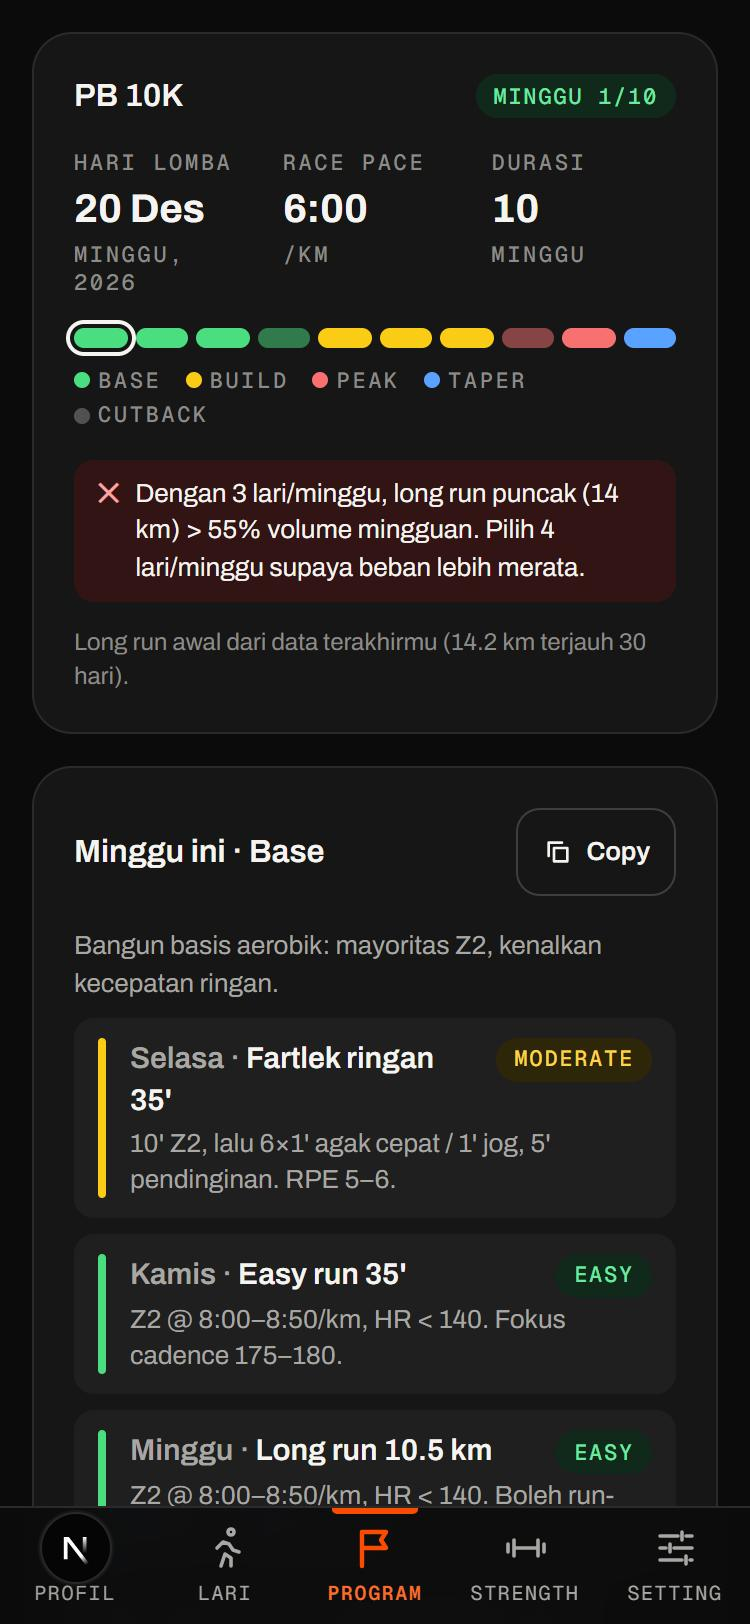
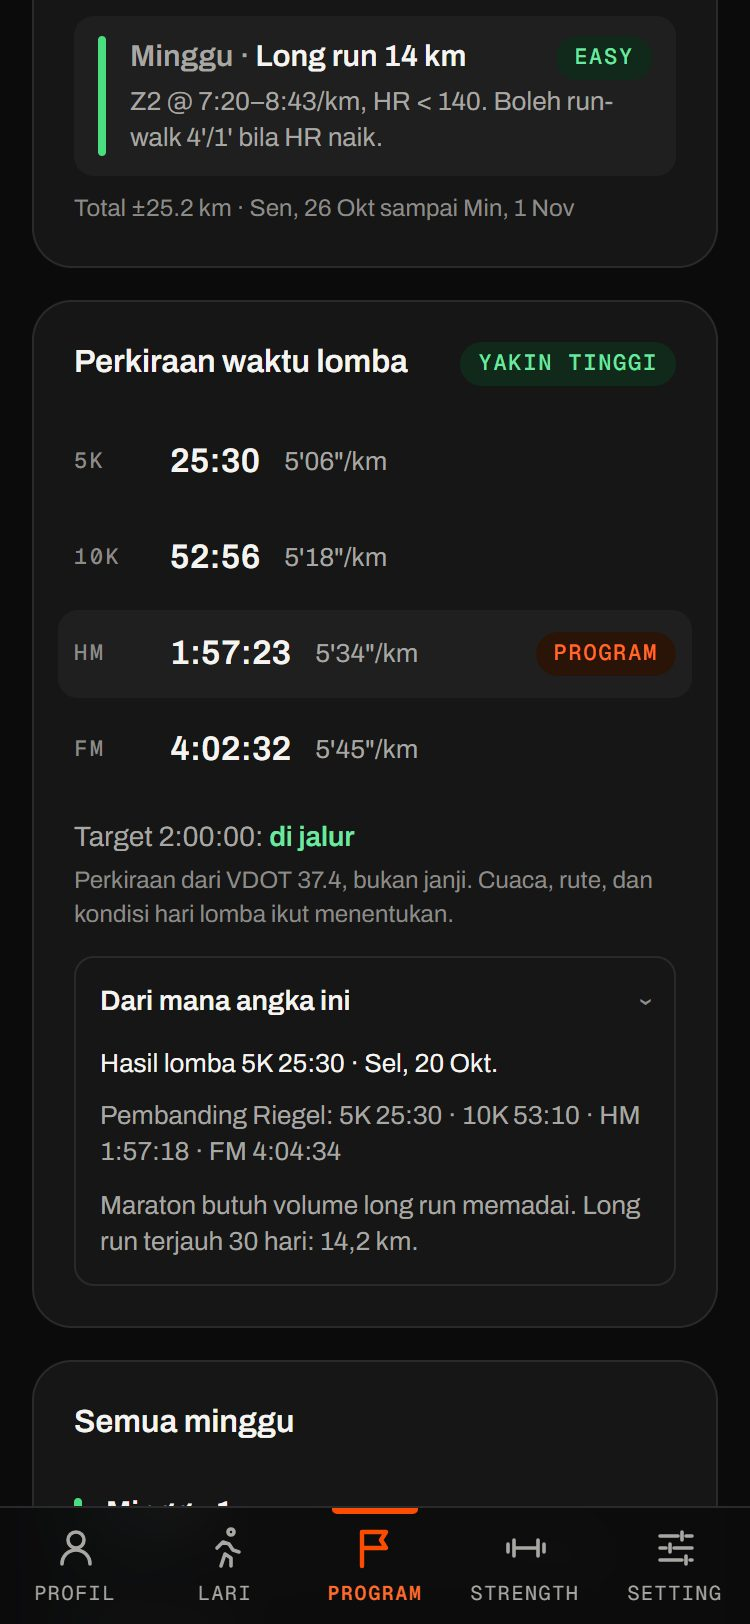
docs: 0.13.2
PRD (version, tests, all 0.13 rows in §4.5 done, §4.8 race results, §7 0.13
done and moved to §8, dated roadmap note, backlog P2 for intervals.icu best
efforts), TRAINING-LOGIC §7 prediction, zone offer, reschedule and countdown
with Daniels & Gilbert 1979 and Riegel 1981, ARCHITECTURE modules and tests
for 0.13.1–0.13.2, CHANGELOG, README, package.json 0.13.2, Program screenshot
from Demo Mode.

diff --git a/docs/PRD.md b/docs/PRD.md
@@ -5,11 +5,11 @@
 
 | | |
 | --- | --- |
-| **Versi saat ini** | 0.13.1 (2026-10-26) |
+| **Versi saat ini** | 0.13.2 (2026-10-26) |
 | **Status** | Dipakai harian oleh pemilik (single user), live di Vercel |
 | **Deploy** | Vercel milik pemilik, dilindungi Deployment Protection (alamat sengaja tidak dicantumkan karena berisi data kesehatan) |
 | **Repo** | https://github.com/khaliladha11/hybrid-athlete-dashboard |
-| **Kualitas** | 29 file test, 398 unit test lolos · build produksi lolos · CI GitHub Actions di setiap push & PR |
+| **Kualitas** | 31 file test, 430 unit test lolos · build produksi lolos · CI GitHub Actions di setiap push & PR |
 | **Dokumen terkait** | [README](../README.md) · [CHANGELOG](../CHANGELOG.md) · [TRAINING-LOGIC](TRAINING-LOGIC.md) · [ARCHITECTURE](ARCHITECTURE.md) · [DESIGN-SYSTEM](DESIGN-SYSTEM.md) · [Logo](brand/LOGO.md) · [ONBOARDING](ONBOARDING.md) · [SYNC](SYNC.md) · [Spesifikasi 0.13: PROGRAM-HIDUP](PROGRAM-HIDUP.md) · [STRENGTH-HIDUP](STRENGTH-HIDUP.md) · [Audit media gerakan](movement-media-audit.md) · [Usulan gerakan 0.9](movement-library-proposal.md) · [NOTICE](../NOTICE.md) |
 
 **Legenda status:** ✅ Selesai · 🟡 Sebagian / ada keterbatasan · ⬜ Belum dibuat · 💡 Ide
@@ -206,15 +206,15 @@ Aturan ini berlaku untuk setiap fitur baru. Semuanya sudah diuji otomatis.
 | Salin rencana minggu ini | ✅ | |
 | Program terhubung ke generator ("Kerjakan sesi hari ini") | ✅ | 0.13.1 ([PROGRAM-HIDUP.md](PROGRAM-HIDUP.md) #1): tombol di Program › Minggu ini dan ringkasan Profil; isian generator dari rencana tetap bisa diubah, chip `DARI PROGRAM · MINGGU N` selama belum diubah, pola rencana (tempo, 4×4) lewat parameter opsional generator. Long run, lomba, Race pace & Sharpener tampil sebagai kartu sesi program dengan teks Copy Set (D4) |
 | Kepatuhan program (rencana vs aktual dari intervals.icu) | ✅ | 0.13.0 ([PROGRAM-HIDUP.md](PROGRAM-HIDUP.md) #2): selesai / sebagian / terlewat / digeser / dilewati, dihitung di client (D2, D3); sesi ber-id + override disinkron per sesi; ST dari log lokal atau aktivitas strength |
-| Prediksi waktu lomba dari performa terbaru | ⬜ | 0.13.2 ([PROGRAM-HIDUP.md](PROGRAM-HIDUP.md) #3); VDOT Daniels, Riegel hanya pembanding (D1) |
+| Prediksi waktu lomba dari performa terbaru | ✅ | 0.13.2 ([PROGRAM-HIDUP.md](PROGRAM-HIDUP.md) #3): kartu "Perkiraan waktu lomba" di Program. VDOT Daniels dari hasil lomba 90 hari (keyakinan tinggi) atau lari utuh ≥ 3 km (rendah), invers ke 5K/10K/HM/FM, selisih terhadap target, Riegel hanya pembanding (D1). FM maksimal rendah bila long run terjauh 30 hari < 12 km. Best effort intervals.icu belum dipakai (backlog) |
 | Saran hari ini membaca sesi rencana hari ini | ✅ | 0.13.1 ([PROGRAM-HIDUP.md](PROGRAM-HIDUP.md) #4): readiness rendah menurunkan quality satu level dan memendekkan long run ke ±75% (pace easy); 80/20 → quality jadi Easy; kenaikan km > 30% → maks 30' dan long run ditahan di jarak minggu lalu. Lihat [TRAINING-LOGIC §5](TRAINING-LOGIC.md#5-saran-hari-ini) |
 | Sesi rencana yang akan datang di kalender (rencana = warna intensitas, selesai = oranye) | ✅ | 0.13.0 ([PROGRAM-HIDUP.md](PROGRAM-HIDUP.md) #5) |
 | Rentang kalender mengikuti panjang program (HM 12 mg, FM 16 mg) | ✅ | 0.13.0 ([PROGRAM-HIDUP.md](PROGRAM-HIDUP.md) #6): data lama diambil sekali lewat `/api/activities` (maks 200 hari) |
 | Ringkasan minggu program di Profil (minggu ke-, fase, sesi selesai, long run) | ✅ | 0.13.0 ([PROGRAM-HIDUP.md](PROGRAM-HIDUP.md) #7): hanya untuk program aktif |
 | Sesi ST dari program membuka Generator Strength | ✅ | 0.13.1 ([PROGRAM-HIDUP.md](PROGRAM-HIDUP.md) #8): Senin Lower 45', Rabu Upper Pull (minggu ganjil) / Upper Push (genap), taper Easy. Logika ST tidak berubah (0.14) |
-| Sesi terlewat: tawaran geser atau lewati, tetap mematuhi aturan jadwal | ⬜ | 0.13.2 ([PROGRAM-HIDUP.md](PROGRAM-HIDUP.md) #9). Keputusan di tangan atlet; tidak pernah menambah volume minggu berikutnya (D5) |
-| Saran update zona saat prediksi menunjukkan kebugaran naik konsisten | ⬜ | 0.13.2 ([PROGRAM-HIDUP.md](PROGRAM-HIDUP.md) #10). Tidak pernah otomatis |
-| Hitung mundur & minggu lomba (sisa hari, catatan taper, checklist hari H) | ⬜ | 0.13.2 ([PROGRAM-HIDUP.md](PROGRAM-HIDUP.md) #11) |
+| Sesi terlewat: tawaran geser atau lewati, tetap mematuhi aturan jadwal | ✅ | 0.13.2 ([PROGRAM-HIDUP.md](PROGRAM-HIDUP.md) #9): baris `Tempo Selasa terlewat · Geser ke Jumat · Lewati` di Program dan Profil, disimpan sebagai override (tersinkron per sesi). Geser hanya di minggu yang sama, jadi tidak pernah menambah volume minggu berikutnya (D5); long run Minggu praktis hanya bisa dilewati. Lewati dua ketukan |
+| Saran update zona saat prediksi menunjukkan kebugaran naik konsisten | ✅ | 0.13.2 ([PROGRAM-HIDUP.md](PROGRAM-HIDUP.md) #10): di Setting › Zona dan Profil bila dua hasil lomba berbeda (terpisah ≥ 14 hari) sama-sama ≥ VDOT zona + 1. Tidak pernah otomatis; Tolak diingat sampai VDOT naik ≥ 1 lagi |
+| Hitung mundur & minggu lomba (sisa hari, catatan taper, checklist hari H) | ✅ | 0.13.2 ([PROGRAM-HIDUP.md](PROGRAM-HIDUP.md) #11): `14 HARI LAGI · HALF MARATHON` di Program dan Profil, checklist umum H-1 dengan rencana pace dari perkiraan, dan tawaran mencatat hasil lomba H+1 sampai H+14 |
 
 ### 4.6 Log & progresi beban
 
@@ -260,6 +260,7 @@ Aturan ini berlaku untuk setiap fitur baru. Semuanya sudah diuji otomatis.
 | Nav bagian sticky: smooth scroll, highlight kartu tujuan, scroll spy | ✅ | 0.8.1, menghormati reduced motion |
 | Zona HR & RPE bisa diubah | ⬜ | Sekarang hanya pace |
 | Edit nama, target lomba, tanggal mulai blok | ✅ | 0.11.0, bagian Profil (paling atas). Target lomba lewat pemilih waktu |
+| Hasil lomba / time trial tersimpan (jarak, waktu, tanggal) | ✅ | 0.13.2: dari kalkulator VDOT ("Terapkan ke semua zona" atau "Simpan hasil saja"), bisa dihapus, tersinkron per kunci. Sumber utama perkiraan waktu lomba dan saran update zona |
 
 ### 4.9 Onboarding
 
@@ -347,11 +348,12 @@ Ukuran: **S** ≈ < 1 hari · **M** ≈ 1–3 hari · **L** ≈ > 3 hari.
 
 | Usulan versi | Isi | Alasan |
 | --- | --- | --- |
-| **0.13 Program hidup** ([PROGRAM-HIDUP.md](PROGRAM-HIDUP.md)) | Program → generator, kepatuhan rencana vs aktual, prediksi waktu lomba; saran tahu rencana, rencana di kalender, ringkasan minggu, sesi terlewat (geser/lewati), hitung mundur lomba | Program target jadi benar-benar dipakai harian |
 | **0.14 Strength hidup** ([STRENGTH-HIDUP.md](STRENGTH-HIDUP.md)) | ST mengikuti fase program, session-RPE masuk beban, aturan hari yang sama, mode latihan + timer, skema Kekuatan, tangga progresi, tes kekuatan, plyometric opsional | ST jadi separuh rencana yang setara: ikut dihitung sebagai beban dan punya progres yang terlihat |
 | **0.15 Insight** | Grafik tren CTL/ATL/Form, km mingguan, pace & cadence, tren volume ST; check-in subjektif harian | Melihat progres jangka panjang dan mencegah cedera |
 | **1.0 Siap pakai penuh** | Offline, kirim workout ke intervals.icu/jam, test e2e | Stabil dan mandiri tanpa edit kode |
 
+> 2026-10-26 (2): **0.13 Program hidup selesai** (0.13.0 kepatuhan & kalender, 0.13.1 program → generator & saran tahu rencana, 0.13.2 prediksi, saran zona, geser/lewati, hitung mundur) dan pindah ke §8. Rilis berikutnya **0.14 Strength hidup**. Sumber 2 prediksi (best effort intervals.icu) tidak dipakai: endpoint `GET /api/v1/athlete/{id}/pace-curves` ada di dokumentasi resmi, tetapi satuan `values` tidak dijelaskan dan data per detik jam tidak selalu bisa dipercaya (§6), jadi masuk backlog P2. Saran update zona memakai dua hasil lomba berbeda yang terpisah ≥ 14 hari.
+>
 > 2026-10-26: **spesifikasi 0.13 Program hidup selesai** ([PROGRAM-HIDUP.md](PROGRAM-HIDUP.md), menggantikan dokumen cakupan). Dirilis bertahap: 0.13.0 kepatuhan & kalender, 0.13.1 program → generator & saran tahu rencana, 0.13.2 prediksi, zona, geser/lewati, hitung mundur. Keputusan: **D1** prediksi memakai VDOT Daniels yang sama dengan zona, Riegel hanya pembanding. **D2** sesi selesai bila ada lari di tanggal rencana ±1 hari (WIB) dengan jenis cocok dan durasi atau jarak ≥ 80%, di bawahnya sebagian. **D3** kepatuhan dihitung di client lewat modul murni, aktivitas tetap diambil di server. **D4** long run dan sesi spesifik lomba tidak dibuat ulang lewat generator 30/45/60 menit, tetapi tampil sebagai kartu sesi program. **D5** geser/lewati tidak pernah otomatis dan tidak pernah menambah volume minggu berikutnya.
 >
 > 2026-10-23 (3): roadmap disetujui: **0.13 Program hidup**, **0.14 Strength hidup**, **0.15 Insight**, 1.0. ST dipisah menjadi rilis sendiri karena ST belum tereksplorasi untuk aplikasi hybrid athlete (masih prehab & pelengkap lari, belum dihitung sebagai beban dan belum mengikuti fase program). Insight bergeser dari 0.14 ke 0.15 dan kini mencakup tren volume ST. CI tidak lagi tercantum di 1.0 karena sudah ada sejak 0.12.0. Cakupan: [PROGRAM-HIDUP.md](PROGRAM-HIDUP.md), [STRENGTH-HIDUP.md](STRENGTH-HIDUP.md).
@@ -380,9 +382,9 @@ Ukuran: **S** ≈ < 1 hari · **M** ≈ 1–3 hari · **L** ≈ > 3 hari.
 | P0 | **Sinkron data** (Upstash Redis / Supabase) untuk log, program, preferensi | M | Data aman dan sama di semua perangkat. → Masuk **0.12.1–0.12.2** (Upstash Redis milik pengguna, [SYNC.md](SYNC.md) §4) |
 | P0 | **CI GitHub Actions** (typecheck, test, build tiap push) | S | Mencegah rilis rusak. → Masuk **0.12.0** ([SYNC.md](SYNC.md) §6) |
 | P1 | **Gambar untuk 5 gerakan sisa** & gerakan anti-rotasi (sumber berlisensi bebas lain, atau foto sendiri) | M | Detail teknik lengkap untuk prehab wajib |
-| P1 | **Program → generator**: tombol "Kerjakan sesi hari ini" yang mengisi generator lari | S | Satu tap dari rencana ke workout. → **0.13** |
-| P1 | **Kepatuhan program**: tandai sesi rencana ✓/✕ dari aktivitas intervals.icu, tampil di kalender | M | Tahu apakah masih di jalur. → **0.13** |
-| P1 | **Prediksi waktu lomba** dari lari terbaik terbaru (usulan VDOT Daniels, Riegel sebagai pembanding) untuk mengecek target | S | Target realistis. → **0.13** |
+| P1 | **Program → generator**: tombol "Kerjakan sesi hari ini" yang mengisi generator lari | S | Satu tap dari rencana ke workout. → Selesai di **0.13.1** |
+| P1 | **Kepatuhan program**: tandai sesi rencana ✓/✕ dari aktivitas intervals.icu, tampil di kalender | M | Tahu apakah masih di jalur. → Selesai di **0.13.0** |
+| P1 | **Prediksi waktu lomba** dari lari terbaik terbaru (usulan VDOT Daniels, Riegel sebagai pembanding) untuk mengecek target | S | Target realistis. → Selesai di **0.13.2** (tanpa best effort intervals.icu, lihat P2) |
 | P1 | **Check-in harian**: nyeri shin (0–10), pegal, kualitas tidur, mood → ikut ke saran | S | Sinyal dini shin splints yang tidak terlihat di HRV. → **0.15** |
 | P1 | **Grafik tren** CTL/ATL/Form & km mingguan | M | Melihat kebugaran dan kelelahan jangka panjang. → **0.15** |
 | P1 | **ST mengikuti fase program** (Base, Build, Peak, Taper) | M | ST kaki tidak berat menjelang lomba. → **0.14** |
@@ -390,6 +392,7 @@ Ukuran: **S** ≈ < 1 hari · **M** ≈ 1–3 hari · **L** ≈ > 3 hari.
 | P2 | **Kirim workout ke kalender intervals.icu** (lalu ke jam yang terhubung) | M | Workout langsung muncul di jam. → **1.0** |
 | P2 | **Edit sisa profil di aplikasi** (target lomba, tanggal mulai blok, zona HR/RPE) | S | Tanpa edit JSON sama sekali. → Terserap ke **0.11** ([ONBOARDING.md](ONBOARDING.md) §4.5), kecuali zona HR/RPE yang tetap di backlog |
 | P2 | **Enkripsi sisi klien (opsional)**: passphrase + WebCrypto sebelum data dikirim ke database | M | Database pun tidak bisa membaca data kesehatan. Tidak di 0.12 ([SYNC.md](SYNC.md) §4, §11) |
+| P2 | **Best effort intervals.icu sebagai sumber kedua prediksi** (`GET /api/v1/athlete/{id}/pace-curves`, `type=Run`, `curves=90d`) | S | Perkiraan lebih yakin tanpa harus lomba. Butuh kepastian satuan `values` (tidak dijelaskan di skema API) dan penyaring untuk data per detik jam yang rusak, karena best effort juga bisa memicu saran update zona |
 | P2 | **Isian awal VDOT dari lari terbaik 90 hari** di onboarding & Setting (butuh data intervals.icu di client) | S | Zona lari tepat tanpa harus ingat hasil lomba |
 | P2 | **Ambang personal** (HR berat dari zona/LTHR, baseline HRV 30 hari) | S | Saran lebih akurat |
 | P2 | **Mode offline** (service worker, cache workout terakhir) | M | Tetap bisa dibuka di gym tanpa sinyal. Relevan untuk rasa native setelah onboarding mengajak pasang ke layar utama (0.11). → **1.0** |
@@ -445,6 +448,7 @@ Ukuran: **S** ≈ < 1 hari · **M** ≈ 1–3 hari · **L** ≈ > 3 hari.
 | 0.12.2 | 2026-10-23 | Cadangan otomatis harian (7 snapshot) + Riwayat cadangan & Pulihkan yang bisa dibatalkan; Sambungkan perangkat ini; disclaimer v2; README panduan Upstash |
 | 0.13.0 | 2026-10-26 | Program hidup tahap 1: sesi rencana ber-id + override (disinkron per sesi), kepatuhan otomatis, rencana di kalender sepanjang program, ringkasan minggu di Profil |
 | 0.13.1 | 2026-10-26 | Program hidup tahap 2: "Kerjakan sesi hari ini" (isian generator lari & ST dari rencana, kartu sesi program untuk long run & sesi spesifik lomba), saran hari ini terhadap rencana |
+| 0.13.2 | 2026-10-26 | Program hidup selesai: perkiraan waktu lomba (VDOT, Riegel pembanding), hasil lomba tersimpan, saran update zona, geser/lewati sesi terlewat, hitung mundur & checklist minggu lomba |
 
 Detail tiap versi ada di [CHANGELOG.md](../CHANGELOG.md).
 

diff --git a/docs/ARCHITECTURE.md b/docs/ARCHITECTURE.md
@@ -77,7 +77,10 @@ Pelanggaran akan melempar `WorkoutValidationError`. Hal yang sama berlaku untuk 
 | `lib/program/sessions.ts` | Sesi rencana ber-id `{programId}:{minggu}:{hari}:{jenis}` termasuk ST, penerapan override move/skip | Server & client (murni) |
 | `lib/program/compliance.ts` | Pencocokan aktivitas ±1 hari & status sesi (D2), catatan lebih berat, ringkasan minggu | Server & client (murni) |
 | `lib/program/range.ts`, `app/api/activities/route.ts` | `GET /api/activities?oldest=` (maks 200 hari, `private, max-age=300`) memakai `getActivities`; sesi sandi tetap diperiksa `intervalsGet` | Server |
-| `lib/program/use-program-plan.ts` | Hook: pengaturan program + aktivitas dari server (+ satu ambilan tambahan bila program butuh data lebih lama) → program, sesi, kepatuhan di client (D3) | Client |
+| `lib/program/to-generator.ts` | Pemetaan sesi rencana → isian generator lari/ST atau kartu sesi program (0.13.1), teks salin kartu, query prefill & parser-nya, `todaySession`, `planToday` | Server & client (murni) |
+| `lib/program/prediction.ts` | Perkiraan waktu lomba (0.13.2): sumber VDOT (hasil lomba 90 hari, lalu lari utuh ≥ 3 km), invers VDOT per jarak, keyakinan, Riegel, `targetGap`, `zoneOffer` | Server & client (murni) |
+| `lib/program/reschedule.ts` | Opsi geser/lewati untuk sesi terlewat (0.13.2), selalu di minggu yang sama (D5), `missedSessions` | Server & client (murni) |
+| `lib/program/use-program-plan.ts` | Hook: pengaturan program + aktivitas dari server (+ satu ambilan tambahan bila program butuh data lebih lama) → program, sesi, kepatuhan di client (D3); `decide()` menyimpan keputusan geser/lewati sebagai override | Client |
 | `lib/generator/block.ts` | Posisi blok & deload dari tanggal | Server |
 | `lib/generator/run.ts`, `strength.ts` | Pembuat pola | Client |
 | `lib/generator/validate.ts` | Sanitizer + validator | Client |
@@ -86,7 +89,7 @@ Pelanggaran akan melempar `WorkoutValidationError`. Hal yang sama berlaku untuk 
 | `lib/progression.ts` | Aturan 2-for-2, penerapan ke workout | Client |
 | `lib/training-log.ts` | Penyimpanan log (localStorage) + ekspor/impor | Client |
 | `lib/conditions.ts` | Katalog kondisi berbasis riset → aturan generator | Server & client |
-| `lib/run-zones.ts` | Rumus VDOT Daniels, parser & format pace | Client |
+| `lib/run-zones.ts` | Rumus VDOT Daniels, invers (`timeForVdot`) & VDOT zona tersimpan (`zoneVdot`, 0.13.2), parser & format pace | Server & client |
 | `lib/equipment.ts` | Kebutuhan alat per gerakan, beban yang bisa dirakit dari plat | Server & client |
 | `lib/athlete-settings.ts` | Pengaturan Setting (termasuk profil dasar sejak 0.11) + `resolveProfile()` → profil efektif (JSON netral + pengaturan perangkat), format target lomba, gerakan cadangan (`fallback`) aktif otomatis bila kategorinya kosong, `sessionCoverage()` untuk pesan alat di Strength | Server & client |
 | `lib/settings-store.ts` | Hook `useAthleteSettings` / `useResolvedProfile`, `useBlockMode` / `useBlockContext` (blok dihitung dari profil perangkat), `useIsClient` | Client |
@@ -137,7 +140,7 @@ Key `localStorage` (pola `hybrid-athlete.<nama>[.vN]`, di `lib/preference-keys.t
 
 | Key | Isi |
 | --- | --- |
-| `hybrid-athlete.settings.v1` | `AthleteSettings`: `profile` (override per field), `conditions` & `equipment` (nilai penuh begitu disimpan), `runZones` & `movements` (override) |
+| `hybrid-athlete.settings.v1` | `AthleteSettings`: `profile` (override per field), `conditions` & `equipment` (nilai penuh begitu disimpan), `runZones` & `movements` (override), `raceResults` (hasil lomba, maks 20) & `zoneOfferDismissedVdot` sejak 0.13.2. Semua kunci selain `profile` disinkron per kunci |
 | `hybrid-athlete.log.v1` | Log sesi ST |
 | `hybrid-athlete.program` | Program target |
 | `hybrid-athlete.theme` | `light` / `dark` (kosong = sistem) |
@@ -177,7 +180,12 @@ Test aturan (generator, periodization, media, settings) memakai profil contoh an
 | `progression.test.ts` | Aturan 2-for-2, tahan/turun, batas library, deload, gerakan tahan & band, validasi data impor. |
 | `data.test.ts` | Tanggal WIB, normalisasi field null & cadence, ringkasan 7 hari, readiness. |
 | `activity-data.test.ts` | Dedupe Huawei + salinan Strava (urutan apa pun, tanpa pasangan, beda jenis, dua rekaman berisi), split per km (konstan, berhenti, HR berbobot, data rusak, cadence per-kaki), sumber jarak (dibagi rata, GPS, tanpa GPS), kasus tepi data jam (jarak bertangga, berhenti, lonjakan, reset, GPS hilang, validasi ringkasan, ambang lari/jalan), detail demo. |
-| `program.test.ts` | Program target: fase, long run ≤ 10%/2 km, cutback, taper, peringatan, `kind` & `minutes` per sesi. |
+| `program.test.ts` | Program target: fase, long run ≤ 10%/2 km, cutback, taper, peringatan, `kind` & `minutes` per sesi, hitung mundur, checklist H-1, tawaran catat hasil H+1 sampai H+14. |
+| `run-baseline.test.ts` | 108 hash keluaran generator lari tanpa `pattern` (dibuat dari kode sebelum 0.13.1) untuk menjamin parameter opsional tidak mengubah keluaran lama. |
+| `run-pattern.test.ts` | Pola lari yang diminta benar-benar terpilih bila cocok dengan level/durasi, pola tidak cocok diabaikan, 15/15 tidak pernah muncul dengan Achilles. |
+| `to-generator.test.ts` | Pemetaan semua jenis sesi × fase × jarak × 3/4 lari, durasi 30/45/60, kartu tanpa em/en dash, query prefill bolak-balik & rusak, `todaySession`, `planToday`. |
+| `prediction.test.ts` | Prioritas sumber & jendela 90 hari, filter lari latihan, waktu = invers VDOT, keyakinan FM, Riegel, `targetGap`, saran update zona (satu hasil, < 14 hari, ≥ 14 hari, ditolak lalu naik lagi). |
+| `reschedule.test.ts` | Aturan geser/lewati §4.8 (quality dengan & tanpa kandidat, 48 jam, lari tercatat, long run, easy, ST, lomba, sesi belum terlewat), `missedSessions`, dan D5 untuk semua program × sesi × hari: geser tidak mengubah sesi/km minggu lain. |
 | `program-sessions.test.ts` | Id sesi stabil (antar render & perubahan target), id baru saat program berganti, ST Senin/Rabu & taper 1×, override move/skip, parse/serialize override, gabungan override, program aktif, long run awal stabil. |
 | `compliance.test.ts` | Tepat hari & ±1 hari, < 80% → sebagian, easy berat → catatan, quality ringan → sebagian, long run & aktivitas ganda sehari, dua sesi berebut satu aktivitas, tenggang kemarin & terlewat, override, data kosong, ST dari log & dari intervals.icu, ringkasan minggu. |
 | `program-activities.test.ts` | Validasi rentang `/api/activities` dan route di Demo Mode tanpa key. |
@@ -192,10 +200,10 @@ Test aturan (generator, periodization, media, settings) memakai profil contoh an
 | `auth-routes.test.ts` | Route `/api/unlock` & `/api/lock` end-to-end (atribut cookie, Retry-After, IP lain tidak terblokir), `proxy` dengan `NextRequest` (tanpa sandi identik 0.11, 307/401, aset PWA terbuka, matcher), dan `intervalsGet` tidak memanggil intervals.icu tanpa sesi. |
 | `connection.test.ts` | Pemetaan status koneksi (missing tanpa panggilan, 401/403/404/5xx/timeout/jaringan/lainnya), hanya nama atlet yang diteruskan, dan route `GET /api/connection` end-to-end dengan `fetch` palsu: respons tanpa key, athlete ID, atau email; header `no-store`; key hanya di header Authorization. |
 | `onboarding.test.ts` | Urutan & langkah otomatis 0.11.0, maju/mundur, langkah wajib memblokir, opsional dilewati, lanjut dari langkah tersimpan, state rusak, "Tidak ada kondisi" eksklusif, gate (baru/lama/versi disclaimer). |
-| `backup.test.ts` | Ekspor v3, impor v1/v2/v3, impor tanpa log tidak menghapus log, log tanpa duplikat, `kind: "defaults"` tidak menimpa kustomisasi perangkat. |
+| `backup.test.ts` | Ekspor v3, impor v1/v2/v3, impor tanpa log tidak menghapus log, log tanpa duplikat, `kind: "defaults"` tidak menimpa kustomisasi perangkat dan menggabungkan hasil lomba. |
 | `neutral-profile.test.ts` | JSON netral tanpa data pribadi, zona = `zonesFromVdot(30)`, semua kombinasi lari valid dengan profil netral, ST bodyweight-only: semua jenis × durasi × kesulitan × 25 seed × blok/deload/bebas tidak error, lolos aturan wajib, dan Upper Push/Pull berisi gerakan kategorinya. |
 | `tour.test.ts` | Urutan & rute langkah tur, teks tanpa dash/seru, `placePopover` (bawah, atas, elemen setinggi layar, tanpa elemen, layar lebar), `holeRect`, `tourCompletedAt` tersimpan. |
 | `tour-targets.test.ts` | Setiap target `data-tour` benar-benar dipasang di komponen. |
-| `settings.test.ts` | Setiap kondisi mengubah generator sesuai aturannya, kombinasi semua kondisi tetap valid, beban selalu bisa dirakit dari alat, gerakan tidak dipilih tidak pernah muncul, rumus VDOT vs tabel Daniels, parser pengaturan tahan data rusak. |
+| `settings.test.ts` | Setiap kondisi mengubah generator sesuai aturannya, kombinasi semua kondisi tetap valid, beban selalu bisa dirakit dari alat, gerakan tidak dipilih tidak pernah muncul, rumus VDOT & inversnya vs tabel Daniels, VDOT zona, parser pengaturan tahan data rusak, hasil lomba (validasi, unik per jarak + tanggal, maks 20). |
 
 Generator diuji secara menyeluruh (setiap kombinasi × banyak seed), bukan hanya dengan beberapa contoh. Bug yang ditemukan saat pengembangan, seperti deload yang gagal memenuhi durasi atau beban yang terbulatkan salah, selalu disertai test baru.

diff --git a/docs/TRAINING-LOGIC.md b/docs/TRAINING-LOGIC.md
@@ -199,6 +199,50 @@ Kode: [`lib/program/to-generator.ts`](../lib/program/to-generator.ts). Spesifika
 - **Kartu sesi program**: jarak, detail rencana, cue kondisi aktif (cadence, rel kereta, catatan kondisi), dan teks salin format Copy Set, misalnya `Run [14 km, Pace 7:20–8:43]`. Long run FM dengan 3 km race pace dipecah (km − 3 easy, lalu 3 km race pace). Long run yang dipendekkan saran menampilkan jarak baru dan jarak rencana.
 - **Quality spesifik lomba yang diturunkan saran** dikerjakan sebagai lari biasa di generator dengan durasi rencana (Race pace 3×2 km = 60', Sharpener = 30').
 
+### Perkiraan waktu lomba (0.13.2)
+
+Kode: [`lib/program/prediction.ts`](../lib/program/prediction.ts), invers di [`lib/run-zones.ts`](../lib/run-zones.ts). Spesifikasi: [PROGRAM-HIDUP.md](PROGRAM-HIDUP.md) §4.6, D1.
+
+| Aturan | Detail |
+| --- | --- |
+| Rumus | VDOT Daniels & Gilbert yang sama dengan zona. Waktu per jarak = waktu yang menghasilkan VDOT sama (`timeForVdot`, bisection), cocok dengan tabel Daniels dalam 0,5%: VDOT 30 → 5K 30:40, 10K 63:46, HM 2:21:04, FM 4:49:17 |
+| Sumber 1 | Hasil lomba / time trial di Setting › Zona dalam 90 hari terakhir; yang terbaru dipakai. Keyakinan **tinggi** |
+| Sumber 2 | Best effort intervals.icu: belum dipakai (satuan kurva pace tidak dijelaskan di dokumentasi API, data per detik jam tidak selalu bisa dipercaya). Backlog |
+| Sumber 3 | Lari utuh ≥ 3 km dalam 90 hari (pace wajar 2:30–15:00/km, bukan salinan kosong); VDOT tertinggi. Keyakinan **rendah**: lari latihan biasanya lebih lambat dari kemampuan lomba, jadi perkiraannya cenderung hati-hati |
+| Maraton | Selalu diberi catatan volume long run. Bila long run terjauh 30 hari < 12 km, keyakinan FM paling tinggi rendah |
+| Target | `di jalur` bila perkiraan ≤ target; selain itu `perlu N"/km lebih cepat` (dibulatkan ke atas) |
+| Pembanding | Riegel: T2 = T1 × (D2/D1)^1,06 dari performa sumber, hanya di detail. Riegel cenderung terlalu optimis untuk jarak jauh pada volume rendah, jadi bukan angka utama (D1) |
+
+Copy selalu "perkiraan", bukan janji: cuaca, rute, dan kondisi hari lomba ikut menentukan.
+
+### Saran update zona (0.13.2)
+
+Spesifikasi: [PROGRAM-HIDUP.md](PROGRAM-HIDUP.md) §4.7. VDOT zona sekarang dibaca dari zona tempo tersimpan (batas cepat di 88%, batas lambat di 83% VDOT, dirata-rata).
+
+- Tawaran muncul di Setting › Zona dan Profil bila ada **dua hasil lomba berbeda** dalam 90 hari, tanggalnya terpisah **≥ 14 hari**, dan keduanya **≥ VDOT zona + 1**. Zona baru dihitung dari hasil terbaru.
+- Tidak pernah otomatis. **Perbarui** menulis keempat zona dari VDOT itu; **Tolak** mengingat VDOT-nya, dan tawaran baru muncul hanya bila hasil terbaru ≥ VDOT yang ditolak + 1.
+- Lari latihan (sumber 3) tidak pernah memicu saran.
+
+### Sesi terlewat: geser atau lewati (0.13.2)
+
+Kode: [`lib/program/reschedule.ts`](../lib/program/reschedule.ts). Spesifikasi: [PROGRAM-HIDUP.md](PROGRAM-HIDUP.md) §4.8, D5. Hanya untuk sesi berstatus terlewat (lewat tanggal + 1 hari tanpa aktivitas) yang belum diputuskan, dalam 7 hari terakhir. Paling banyak satu tanggal geser ditawarkan (yang paling awal), selalu ≥ hari ini dan **di minggu program yang sama**.
+
+| Sesi | Opsi |
+| --- | --- |
+| Quality | Geser ke hari tanpa lari (rencana atau tercatat), bukan sehari sebelum quality/long run/lomba, dan ≥ 48 jam dari quality sebelumnya. Tanpa kandidat → hanya lewati |
+| Long run | Geser +1 atau +2 hari dengan syarat yang sama, bukan hari quality atau sehari sebelumnya. Long run program selalu Minggu dan baru terlewat Selasa, jadi praktis hanya lewati |
+| Easy / recovery | Hanya lewati |
+| ST | Geser ke hari tanpa sesi apa pun, bukan sehari sebelum quality/long run |
+| Lomba | Tidak ada opsi |
+
+Keputusan disimpan sebagai override program (tersinkron per sesi). Geser tidak pernah membuat sesi atau km baru dan tidak pernah menyentuh minggu lain (D5, dijaga test untuk semua program); tidak ada "membayar utang" latihan.
+
+### Hitung mundur & minggu lomba (0.13.2)
+
+- Program dan ringkasan Profil menampilkan `14 HARI LAGI · HALF MARATHON` (`HARI INI` di hari lomba).
+- Minggu lomba: catatan taper dan sesi sharpener dari program, plus checklist umum H-1: tidur cukup dua malam terakhir, sepatu yang sudah dipakai latihan, makan dan minum yang sudah biasa, rencana pace dari perkiraan (bila berbeda dari target) dengan awal sedikit lebih lambat. Bukan saran medis.
+- Hari ke-1 sampai ke-14 setelah lomba: tawaran mencatat hasil di Setting › Zona (memperkuat sumber 1), hilang setelah hasil jarak itu dicatat.
+
 **Mode bebas:** program blok mingguan (bagian 4) bisa dimatikan lewat toggle. Saat mati, tidak ada minggu deload, dan gerakan utama ★ dipilih per sesi (tetap multi-joint dan tetap dicatat untuk progresi beban).
 
 ## 8. Referensi
@@ -207,9 +251,11 @@ Buku:
 - Bompa, T. O. & Buzzichelli, C. A. — *Periodization: Theory and Methodology of Training* (ed. 6). Human Kinetics. Dasar struktur blok dan deload.
 - NSCA — *Essentials of Strength Training and Conditioning* (ed. 5). Human Kinetics. Gerakan multi-joint sebagai fondasi, urutan latihan, dan progresi beban "2-for-2".
 - Zatsiorsky, V. M., Kraemer, W. J. & Fry, A. C. — *Science and Practice of Strength Training* (ed. 3). Human Kinetics. Prinsip bahwa tidak ada satu program untuk semua orang.
-- Daniels, J. — *Daniels' Running Formula* (ed. 4). Human Kinetics. Kategori pace (Easy, Threshold, Interval) sebagai kerangka perpustakaan pola lari.
+- Daniels, J. — *Daniels' Running Formula* (ed. 4). Human Kinetics. Kategori pace (Easy, Threshold, Interval) sebagai kerangka perpustakaan pola lari, dan tabel VDOT untuk perkiraan waktu lomba.
+- Daniels, J. & Gilbert, J. (1979). *Oxygen Power: Performance Tables for Distance Runners*. Rumus VDOT (VO2 dari kecepatan, %VO2max dari durasi) untuk zona dan perkiraan waktu lomba.
 
 Studi:
+- Riegel, P. S. (1981). Athletic records and human endurance. *American Scientist*, 69(3), 285–290. Rumus T2 = T1 × (D2/D1)^1,06, dipakai hanya sebagai pembanding perkiraan.
 - Helgerud dkk. (2007). Aerobic high-intensity intervals improve VO₂max more than moderate training. *Med Sci Sports Exerc*, 39(4), 665–671. Dasar Norwegian 4×4 & 15/15.
 - Seiler, S. Distribusi intensitas polarisasi pada atlet endurance ([Frontiers in Physiology](https://www.frontiersin.org/articles/10.3389/fphys.2015.00295/full)). Dasar aturan 80/20.
 - Nielsen dkk. (2014). Excessive progression in weekly running distance and risk of running-related injuries. *JOSPT* ([tautan](https://www.jospt.org/doi/10.2519/jospt.2014.5164)). Kenaikan > 30% dikaitkan dengan shin splints dan cedera gluteus medius.
@@ -259,6 +305,8 @@ Pace bisa diisi manual per zona, atau dihitung dari hasil lomba/time trial denga
 | Norwegian 4×4 | 88–92% VDOT | Helgerud 2007: 90–95% HRmax, di antara Threshold & Interval |
 
 Contoh: 5K 30:40 → VDOT ±30 → tempo ±6:24–6:42/km (sesuai tabel Daniels).
+
+Sejak 0.13.2 hasil yang dihitung bisa disimpan (jarak, waktu, tanggal) dengan atau tanpa mengubah zona. Hasil 90 hari terakhir menjadi sumber utama perkiraan waktu lomba dan saran update zona (bagian 7).
 
 ### Alat & beban
 

diff --git a/README.md b/README.md
@@ -32,7 +32,7 @@ Dibangun mobile-first sebagai **PWA**: bisa di-install ke layar utama HP dan dip
   <tr>
     <td><img src="docs/screenshots/02-weekly-summary.jpg" width="220" alt="Ringkasan 7 hari dengan StatRow, 80/20, dan Week Ledger"></td>
     <td><img src="docs/screenshots/06-activity.jpg" width="220" alt="Detail aktivitas Norwegian 4x4 dengan kartu tag dan split per km"></td>
-    <td><img src="docs/screenshots/08-program.jpg" width="220" alt="Program target 10K dengan fase dan minggu ini"></td>
+    <td><img src="docs/screenshots/08-program.jpg" width="220" alt="Program Half Marathon dengan perkiraan waktu lomba dan detail sumbernya"></td>
   </tr>
   <tr>
     <td align="center"><sub>7 hari terakhir + Week Ledger</sub></td>
@@ -103,7 +103,7 @@ Awalnya ini cuma buat saya sendiri. Tapi kondisi, alat, zona lari, dan pilihan g
 | **Detail gerakan** | Thumbnail di setiap gerakan; tap untuk bottom sheet berisi gambar posisi awal ↔ akhir (crossfade, bisa dijeda), cue teknik, otot utama/sekunder, dan catatan kondisi aktif. Gambar dari free-exercise-db (Unlicense), disimpan lokal. |
 | **Generator ST** | Full Body / Upper Push / Upper Pull / Lower. Hanya gerakan yang dipilih & bisa dilakukan dengan alat yang ada, RPE ≤ 7, beban yang benar-benar bisa dirakit dari plat, plus gerakan wajib/terlarang sesuai kondisi aktif (prehab shin, stabilitas panggul, Spine-Friendly, dll.). **Tanpa alat pun jalan**: Upper Push/Pull memakai gerakan cadangan (Push-Up, Wall/Knee Push-Up, Prone Y-T-W, Reverse Snow Angel), dan bila sesi tidak bisa disusun aplikasi menyebut alat yang dibutuhkan. |
 | **Periodisasi** | Blok 4 minggu (3 normal + 1 deload). Gerakan utama ★ dikunci per blok, sedangkan aksesori dan skema rep berputar. Bisa **dimatikan** (toggle) untuk latihan bebas tanpa jadwal blok. |
-| **Program target** | Program mingguan menuju **PB 5K, PB 10K, Half Marathon, atau Full Marathon**: fase Base → Build → Peak → Taper, long run naik ≤ 10%/minggu dengan cutback, race pace dari target waktu, dan jadwal ST yang tidak bentrok. |
+| **Program target** | Program mingguan menuju **PB 5K, PB 10K, Half Marathon, atau Full Marathon**: fase Base → Build → Peak → Taper, long run naik ≤ 10%/minggu dengan cutback, race pace dari target waktu, dan jadwal ST yang tidak bentrok. Sejak 0.13 status sesi otomatis dari aktivitas, "Kerjakan sesi hari ini" ke generator, perkiraan waktu lomba, geser/lewati sesi terlewat, dan hitung mundur. |
 | **Saran hari ini** | Menggabungkan readiness (HRV, resting HR, sesi kemarin), distribusi 80/20, kenaikan km mingguan, dan jarak antara ST kaki dan lari berat. Sarannya bisa diterapkan dengan satu tap. |
 | **Progresi beban** | Catat sesi, lalu beban berikutnya disesuaikan otomatis (aturan "2-for-2" NSCA) ke beban berikutnya yang bisa dirakit, tanpa pernah melewati batas library. Riwayatnya ada di halaman Strength. |
 | **Salin cepat** | Workout ST sebagai teks ringkas; workout lari lewat tombol **Copy Set** (format "Set" Huawei Health). |
@@ -273,7 +273,7 @@ Sejak 0.11.0 profil (nama, target, kondisi, alat, tanggal blok) disimpan di pera
 | **0.10.1–0.10.2** Logo & data aktivitas | ✅ Selesai | Logo "Forward H", aktivitas ganda Huawei + Strava dihitung sekali, split per km yang divalidasi (GPS bila perlu), pemilih waktu & pace di Setting |
 | **0.11** Onboarding & deploy pribadi | ✅ Selesai | Wizard 10 langkah, profil di perangkat + JSON netral, cek koneksi di server, pengingat proteksi deploy, pasang ke HP, tur in-app, strength tanpa alat |
 | **0.12** Aman & tersinkron | ✅ Selesai | CI GitHub Actions, sandi aplikasi opsional, sinkron ke Upstash Redis milikmu, cadangan otomatis harian dengan Pulihkan, Sambungkan perangkat ini |
-| **0.13** Program hidup | 🟡 Berjalan | 0.13.0 & 0.13.1 selesai: kepatuhan rencana vs aktual, rencana di kalender, ringkasan minggu di Profil, "Kerjakan sesi hari ini" ke generator, saran tahu rencana. Berikutnya: prediksi waktu lomba, sesi terlewat, hitung mundur. Spesifikasi: [docs/PROGRAM-HIDUP.md](docs/PROGRAM-HIDUP.md) |
+| **0.13** Program hidup | ✅ Selesai | Kepatuhan rencana vs aktual, rencana di kalender, ringkasan minggu di Profil, "Kerjakan sesi hari ini" ke generator, saran tahu rencana, perkiraan waktu lomba, saran update zona, geser/lewati sesi terlewat, hitung mundur. Spesifikasi: [docs/PROGRAM-HIDUP.md](docs/PROGRAM-HIDUP.md) |
 | **0.14** Strength hidup | 💡 Rencana | ST mengikuti fase program, session-RPE masuk beban, mode latihan + timer, tes kekuatan. Cakupan: [docs/STRENGTH-HIDUP.md](docs/STRENGTH-HIDUP.md) |
 | **0.15** Insight | 💡 Rencana | Grafik tren CTL/ATL/Form, km mingguan, pace & cadence, volume ST; check-in subjektif harian |
 | **1.0** Siap pakai penuh | 💡 Rencana | Offline, kirim workout ke intervals.icu/jam, test e2e. Detail: [roadmap di PRD](docs/PRD.md#7-roadmap--saran-pengembangan) |
@@ -284,7 +284,7 @@ Riwayat lengkap per versi ada di **[CHANGELOG.md](CHANGELOG.md)**.
 
 - **Next.js 16** (App Router, Server Components) + **React 19** + **TypeScript**
 - **Tailwind CSS 4** dengan token semantik di [`app/globals.css`](app/globals.css). Dark mode mengikuti pengaturan sistem.
-- **Vitest**: 29 file test, 398 test yang mencakup seluruh kombinasi input generator, program target, efek setiap kondisi/alat di Setting, dan perhitungan split per km dari data jam
+- **Vitest**: 31 file test, 430 test yang mencakup seluruh kombinasi input generator, program target, efek setiap kondisi/alat di Setting, dan perhitungan split per km dari data jam
 - **intervals.icu REST API** (aktivitas, wellness, stream per detik), dipanggil hanya dari server
 - Grafik SVG buatan sendiri (Segment Skyline), tanpa library chart
 - Tanpa database. Profil default disimpan di JSON; Setting, log sesi, dan program di localStorage perangkat (bisa diekspor/impor).

diff --git a/CHANGELOG.md b/CHANGELOG.md
@@ -4,6 +4,27 @@ Semua perubahan penting di project ini. Format mengikuti [Keep a Changelog](http
 
 ## [Unreleased]
 
+## [0.13.2] · 2026-10-26 · Program hidup: prediksi, zona, geser/lewati, hitung mundur
+
+Tahap terakhir [PROGRAM-HIDUP.md](docs/PROGRAM-HIDUP.md) (§4.6–§4.9, D1, D5). 0.13 Program hidup selesai.
+
+### Ditambahkan
+- **Perkiraan waktu lomba** di Program: 5K/10K/HM/FM dari VDOT Daniels (invers rumus yang sama dengan zona), keyakinan tinggi (hasil lomba 90 hari) atau rendah (lari utuh ≥ 3 km), selisih terhadap target (`di jalur` atau `perlu N"/km lebih cepat`), dan detail sumber dengan pembanding Riegel. FM maksimal rendah bila long run terjauh 30 hari < 12 km.
+- **Hasil lomba tersimpan** di Setting › Zona: kalkulator VDOT kini punya tanggal, "Terapkan ke semua zona" ikut menyimpan hasil, ada "Simpan hasil saja", daftar hasil bisa dihapus. Disinkron per kunci dan ikut cadangan.
+- **Saran update zona** di Setting › Zona dan Profil bila dua hasil lomba berbeda (terpisah ≥ 14 hari) sama-sama ≥ VDOT zona + 1. Tidak pernah otomatis; Tolak diingat sampai VDOT naik ≥ 1 lagi.
+- **Geser atau lewati sesi terlewat**: baris `Tempo Selasa terlewat · Geser ke Jumat · Lewati` di Program dan Profil (maks. 2). Geser hanya di minggu yang sama dan tidak pernah menambah volume minggu berikutnya; Lewati dua ketukan. Disimpan sebagai override program (sudah tersinkron sejak 0.13.0).
+- **Hitung mundur** `48 HARI LAGI · HALF MARATHON` di Program dan Profil, **checklist H-1** di minggu lomba dengan rencana pace dari perkiraan, dan tawaran **Catat hasil lomba** H+1 sampai H+14 yang membuka kalkulator dengan jarak & tanggal terisi.
+- 32 test baru (`prediction`, `reschedule`, tambahan `settings`, `program`, `sync-merge`, `backup`), total 430 di 31 file.
+
+### Diubah
+- Halaman Program mengambil 90 hari aktivitas di server (sebelumnya 30) untuk perkiraan waktu lomba.
+
+### Tidak dipakai
+- Best effort intervals.icu (`pace-curves`): ada di dokumentasi resmi, tetapi satuan `values` tidak dijelaskan dan data per detik jam tidak selalu bisa dipercaya. Masuk backlog P2.
+
+### Dokumentasi
+- PRD (§4.5 semua baris 0.13 ✅, §4.8, §7 0.13 selesai, backlog, §8), TRAINING-LOGIC §7 (perkiraan, saran zona, geser/lewati, hitung mundur) & §8 (Daniels & Gilbert 1979, Riegel 1981), ARCHITECTURE (modul & test 0.13.1–0.13.2), README, screenshot Program.
+
 ## [0.13.1] · 2026-10-26 · Program hidup: program → generator & saran tahu rencana
 
 Tahap kedua [PROGRAM-HIDUP.md](docs/PROGRAM-HIDUP.md) (§4.4, §4.5, D4).
